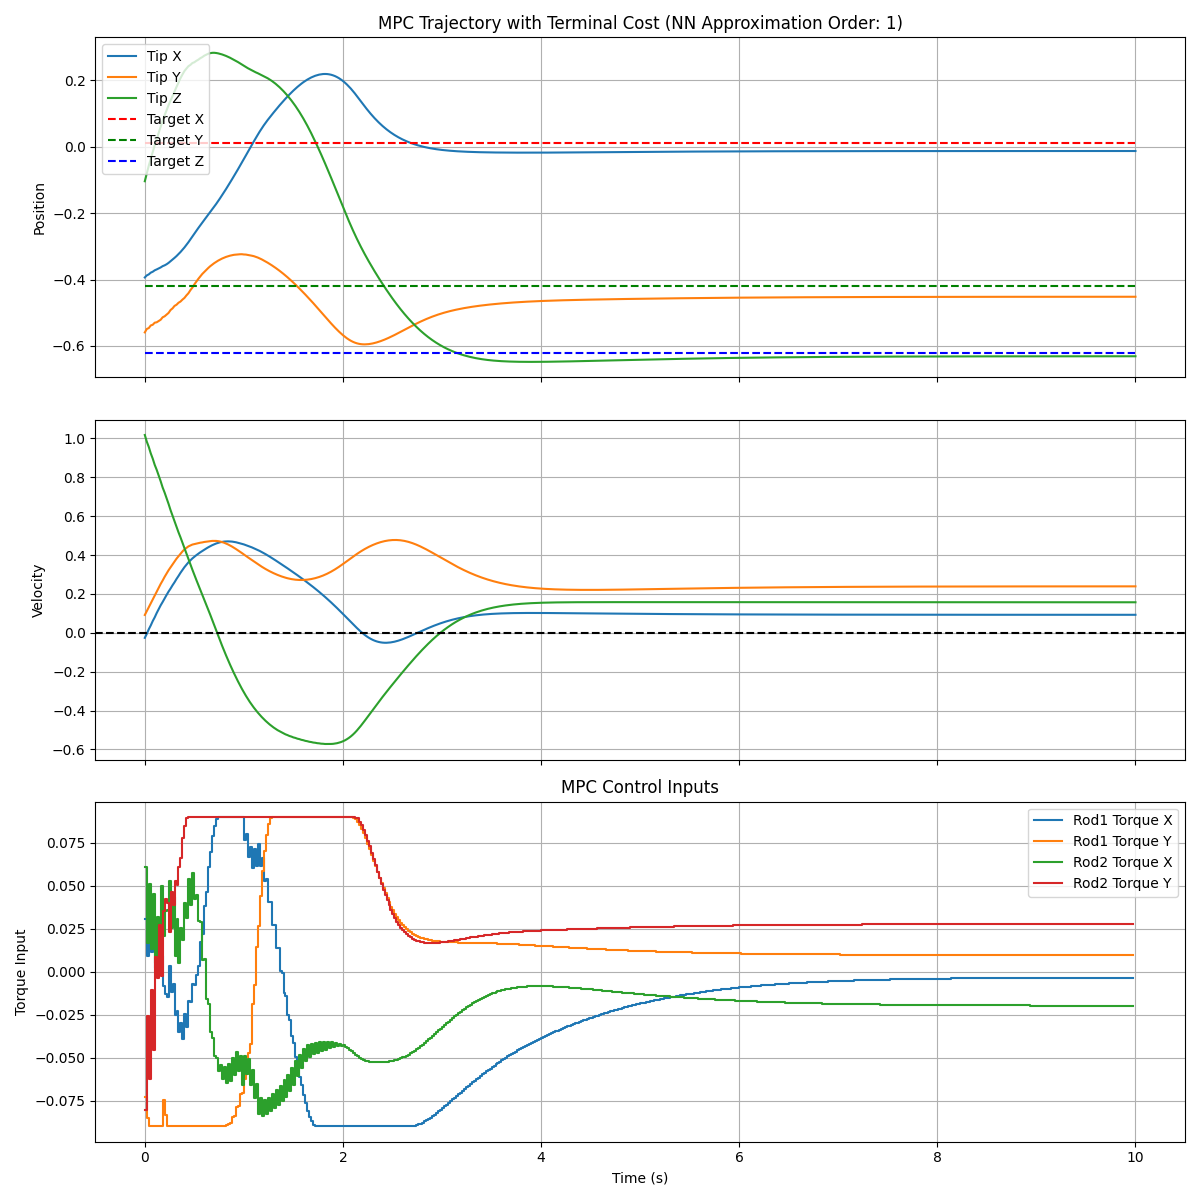
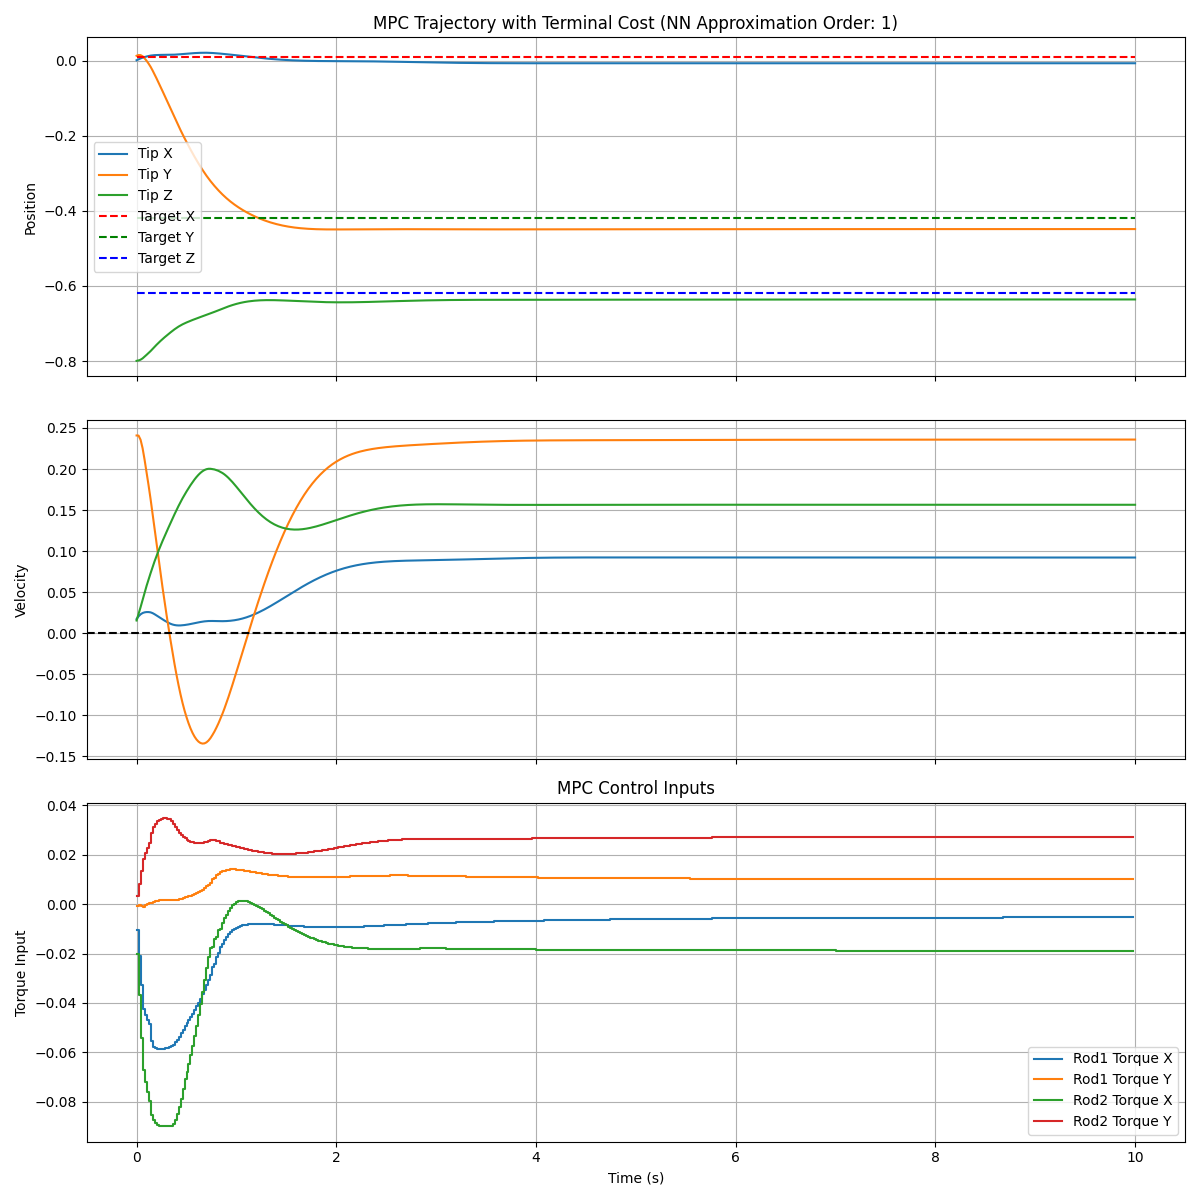
find lambda

diff --git a/generic-neural-mpc/mpc_casadi_sim.py b/generic-neural-mpc/mpc_casadi_sim.py
@@ -32,7 +32,11 @@ class MPCConfig:
     max_torque = 9e-2
     U_MIN = [-max_torque, -max_torque, -max_torque, -max_torque]
     U_MAX = [max_torque, max_torque, max_torque, max_torque]
-    
+    # Workspace box constraints: x, y, z, x_dot, y_dot, z_dot
+    X_MAX = [0.6, 0.6, 0.8, 0.2, 0.2, 0.2]
+    X_MIN = [-0.6, -0.6, 0.0, -0.2, -0.2, -0.2]
+
+
     def stability_check(self):
         """
         Check if the MPC configuration is stable (based on Seel et. al., "Neural Network-Based Model Predictive Control with Input-to-State Stability")
@@ -63,10 +67,9 @@ class MPCConfig:
         The discussion above guarantees ISS inside a region of attraction around the reference, the size of this can be regulated by tuning lambda (Limon et al., "On the stability of constrained MPC without terminal constraint")
 
         In conclusion, if the cost is chosen such that A1 and A2 hold, the NN is chosen and trained such that A3 and A4 holds, the stability check requires to verify that for the parameters Q and R, LAMBDA is large enough to ensure x_0 is inside the region of attraction
-
+        This is done in find_stabilizing_lambda.
         """
         # Placeholder for stability check logic
-        # For now, we assume the configuration is stable
         return True
 
 class MPCController:
@@ -85,7 +88,8 @@ class MPCController:
         self.n_controls = 4
         self.state_cols = ['tip_position_x', 'tip_position_y', 'tip_position_z', 
                           'tip_velocity_x', 'tip_velocity_y', 'tip_velocity_z']
-        
+        self.LAMBDA = MPCConfig.LAMBDA
+
         # Initialize model and scalers
         self._load_assets()
         self._setup_optimization_problem()
@@ -239,7 +243,127 @@ class MPCController:
         # Input constraints
         for k in range(MPCConfig.N):
             self.opti.subject_to(self.opti.bounded(MPCConfig.U_MIN, self.U[:, k], MPCConfig.U_MAX))
-    
+
+    def find_stabilizing_lambda(self, A_terminal, B_terminal, P_matrix, K_matrix, mu=1e-4, safety=1.1, x_ref=None, u_ref=None):
+        """
+        Compute a robust lambda following the derivation discussed in the thread.
+        Args:
+            A_terminal (np.ndarray): nominal A (n_states x n_states) at terminal step
+            B_terminal (np.ndarray): nominal B (n_states x n_controls) at terminal step
+            P_matrix (np.ndarray): terminal cost matrix (n_states x n_states), assumed PD
+            K_matrix (np.ndarray): terminal feedback gain matrix (n_controls x n_states)
+            mu (float): uniform bound on model prediction/state-map error
+            x_ref (np.ndarray or None): reference state (n_states,). If None assumed zero
+            u_ref (np.ndarray or None): reference input (n_controls,). If None assumed zero
+        Returns:
+            float: computed robust lambda (np.inf if infeasible / denominator <= 0)
+        """
+        # short-hands / safety
+        N = MPCConfig.N
+        Q = self.Q_np
+        R = self.R_np
+        n_x = self.n_states
+        n_u = self.n_controls
+
+        # defaults for refs
+        if x_ref is None:
+            x_ref = np.zeros(n_x)
+        if u_ref is None:
+            u_ref = np.zeros(n_u)
+
+        # Compute radii R_e and R_v from box constraints in MPCConfig ---
+        # produce list of corner points for X box and compute max ||x - x_ref||
+        X_min = np.array(MPCConfig.X_MIN)
+        X_max = np.array(MPCConfig.X_MAX)
+        U_min = np.array(MPCConfig.U_MIN)
+        U_max = np.array(MPCConfig.U_MAX)
+
+        # enumerate corners for states
+        corners = []
+        for mask in range(1 << n_x):
+            corner = np.zeros(n_x)
+            for i in range(n_x):
+                corner[i] = X_max[i] if ((mask >> i) & 1) else X_min[i]
+            corners.append(corner)
+        corners = np.array(corners)
+        # Max distance from x_ref to corners
+        R_e = float(np.max(np.linalg.norm(corners - x_ref.reshape(1, -1), axis=1)))
+
+        # enumerate corners for inputs
+        corners_u = []
+        for mask in range(1 << n_u):
+            corner = np.zeros(n_u)
+            for i in range(n_u):
+                corner[i] = U_max[i] if ((mask >> i) & 1) else U_min[i]
+            corners_u.append(corner)
+        corners_u = np.array(corners_u)
+        # Max distance from u_ref to corners
+        R_v = float(np.max(np.linalg.norm(corners_u - u_ref.reshape(1, -1), axis=1)))
+
+        # Max eigenvalues
+        q_eigs = np.linalg.eigvalsh(Q)
+        qmax = float(np.max(q_eigs))
+
+        r_eigs = np.linalg.eigvalsh(R)
+        rmax = float(np.max(r_eigs))
+
+        t_eigs = np.linalg.eigvalsh(P_matrix)
+        tmax = float(np.max(t_eigs))
+        
+        # Max cost values
+        l_max = R_e * R_e * qmax + R_v * R_v * rmax
+        V_max = R_e * R_e * tmax
+        D = l_max
+        L_N = N * D
+        alpha = V_max
+
+        # Lipschitz linear constants
+        L_f = float(np.linalg.norm(A_terminal, 2))
+        L_l = 2.0 * qmax * R_e
+        L_V = 2.0 * tmax * R_e
+
+        # Delta terms
+        Delta_L_N = L_l * mu * (L_f ** N - 1)/(L_f - 1)
+        Delta_V = L_V * L_f**N * mu
+
+        # Find rho from linearized closed loop system to bound the contraction of the terminal controller around the ref
+        # rho = lambda_max( P^{-1/2} Acl^P P Acl P^{-1/2} ) with Acl = A + B K
+        Acl = A_terminal + B_terminal @ K_matrix
+        # get P^{-1/2} via cholesky: P = L L^T -> P^{-1/2} = inv(L.T)
+        Lchol = np.linalg.cholesky(P_matrix)  # P = L L^T
+        P_inv_sqrt = np.linalg.inv(Lchol.T)
+        M_rho = P_inv_sqrt @ (Acl.T @ (P_matrix @ Acl)) @ P_inv_sqrt
+        try:
+            rho = float(np.max(np.real(np.linalg.eigvals(M_rho))))
+        except Exception as e:
+            print(f"Error computing rho: {e}")
+            rho = 0.9
+
+        # This can be done smartly, higher d -> lower lambda, worst case is d tends 0
+        d = 0.001
+
+        # Feasibility check
+        denom = (1.0 - rho) * alpha - Delta_V
+        if denom <= 0:
+            print(f"Warning: Infeasible robust lambda (denominator = {denom:.6f} <= 0)")
+            print(f"  rho = {rho:.6f}, alpha = {alpha:.6f}, Delta_V = {Delta_V:.6f}")
+            print(f"  Consider relaxing constraints or adjusting tuning parameters")
+            return float('inf')  # infeasible: no finite lambda under worst-case assumptions
+
+        # Compute robust lambda
+        lambda_robust = (L_N + Delta_L_N - N*d) / denom
+
+        # Add safety margin
+        lambda_robust *= safety
+        lambda_robust = max(lambda_robust, 0.0)
+        
+        # Safety check for extremely large values
+        if lambda_robust > 1e6:
+            print(f"Warning: Computed lambda ({lambda_robust:.2e}) is very large, may indicate numerical issues")
+            
+        return float(lambda_robust)
+
+
     def full_pytorch_model(self, x_and_u_torch):
         """Full PyTorch model with scaling"""
         scaled_input = (x_and_u_torch - self.input_mean) / self.input_scale
@@ -374,16 +498,29 @@ class MPCController:
         if self.nn_approximation_order >= 1:
             A_terminal = J_batch[-1][:, self.n_controls:self.n_controls+self.n_states]
             B_terminal = J_batch[-1][:, :self.n_controls]
-        else:
-            # Fallback to identity matrices if no linearization
-            A_terminal = np.eye(self.n_states)
-            B_terminal = np.zeros((self.n_states, self.n_controls))
         
         # Compute terminal cost matrix P by solving DARE with safety
-        P_matrix, _ = self.compute_terminal_cost_matrix(A_terminal, B_terminal, self.Q_np, self.R_np)
-        
-        # Multiply by a gain
-        P_matrix *= MPCConfig.LAMBDA 
+        P_matrix, K_matrix = self.compute_terminal_cost_matrix(A_terminal, B_terminal, self.Q_np, self.R_np)
+
+        # Find stabilizing lambda
+        lambda_robust = self.find_stabilizing_lambda(A_terminal, B_terminal, P_matrix, K_matrix, mu=1e-3, x_ref=x_ref.flatten(), u_ref=None)
+        lambda_robust = -1 # Temp use default value
+        print(f"Computed robust lambda: {lambda_robust}")
+
+        # Use robust lambda if finite, otherwise fall back to configured lambda
+        if np.isfinite(lambda_robust) and lambda_robust > 0:
+            self.LAMBDA = lambda_robust
+        else:
+            self.LAMBDA = MPCConfig.LAMBDA
+
+        # Multiply by the chosen scaling factor
+        P_matrix *= self.LAMBDA
+
+        # Ensure P_matrix is finite and positive definite
+        if not np.all(np.isfinite(P_matrix)):
+            print("Warning: P_matrix contains non-finite values, using Q as fallback")
+            P_matrix = self.Q_np * self.LAMBDA
+
         self.opti.set_value(self.P_terminal, P_matrix)
         
         # Set Current Values and Solve
@@ -539,4 +676,4 @@ def run_mpc_simulation(mode = 'spr', nn_approximation_order=1):
 if __name__ == "__main__":
     mode = 'spr' # set point regulation
     # mode = 'tt' # trajectory tracking
-    run_mpc_simulation(mode=mode, nn_approximation_order=2)
+    run_mpc_simulation(mode=mode, nn_approximation_order=1)
